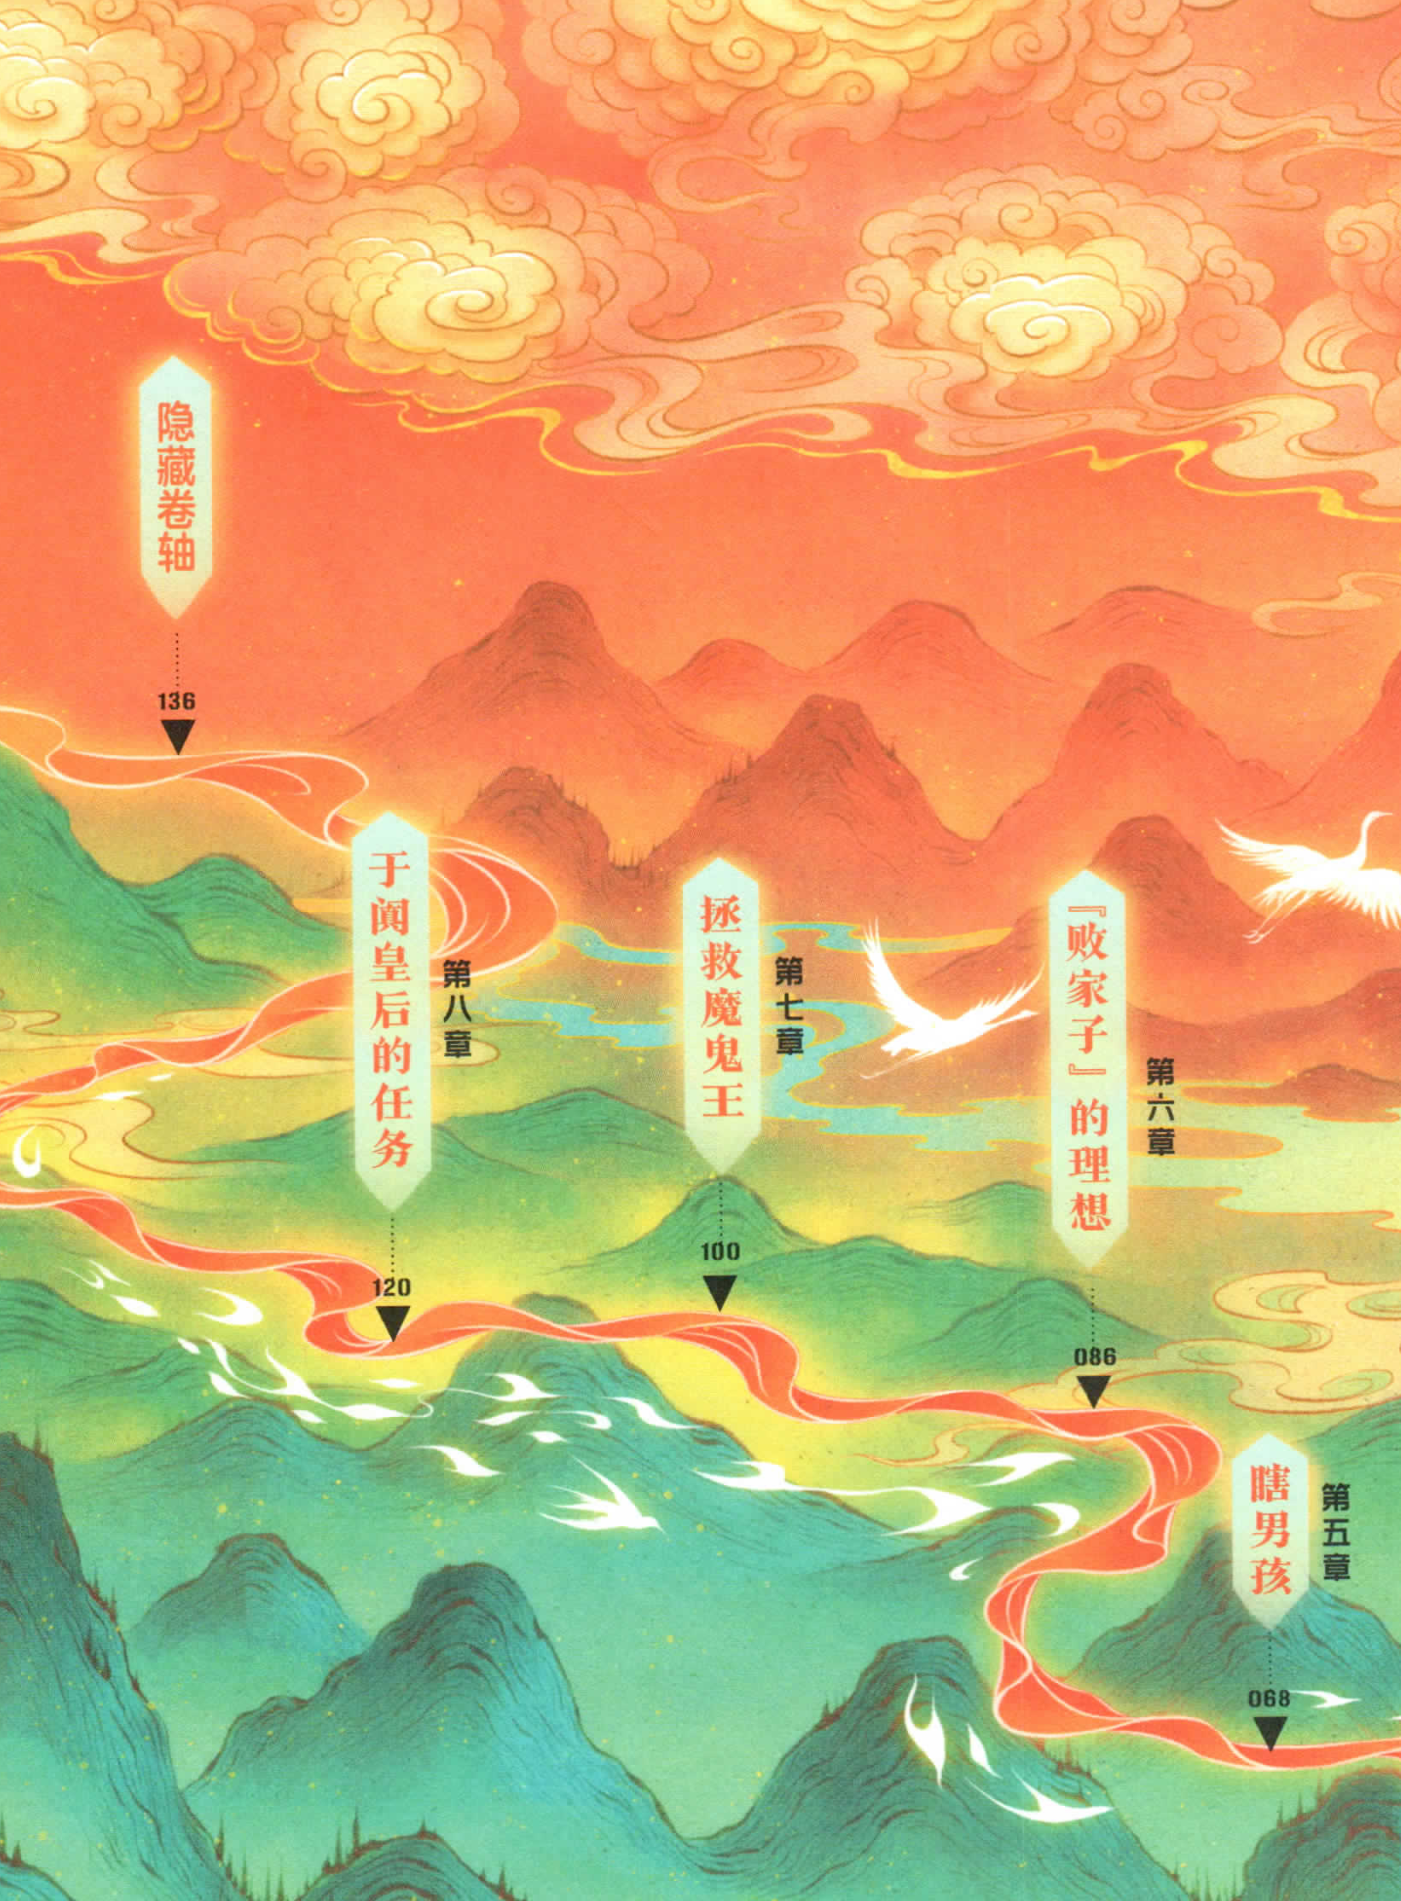
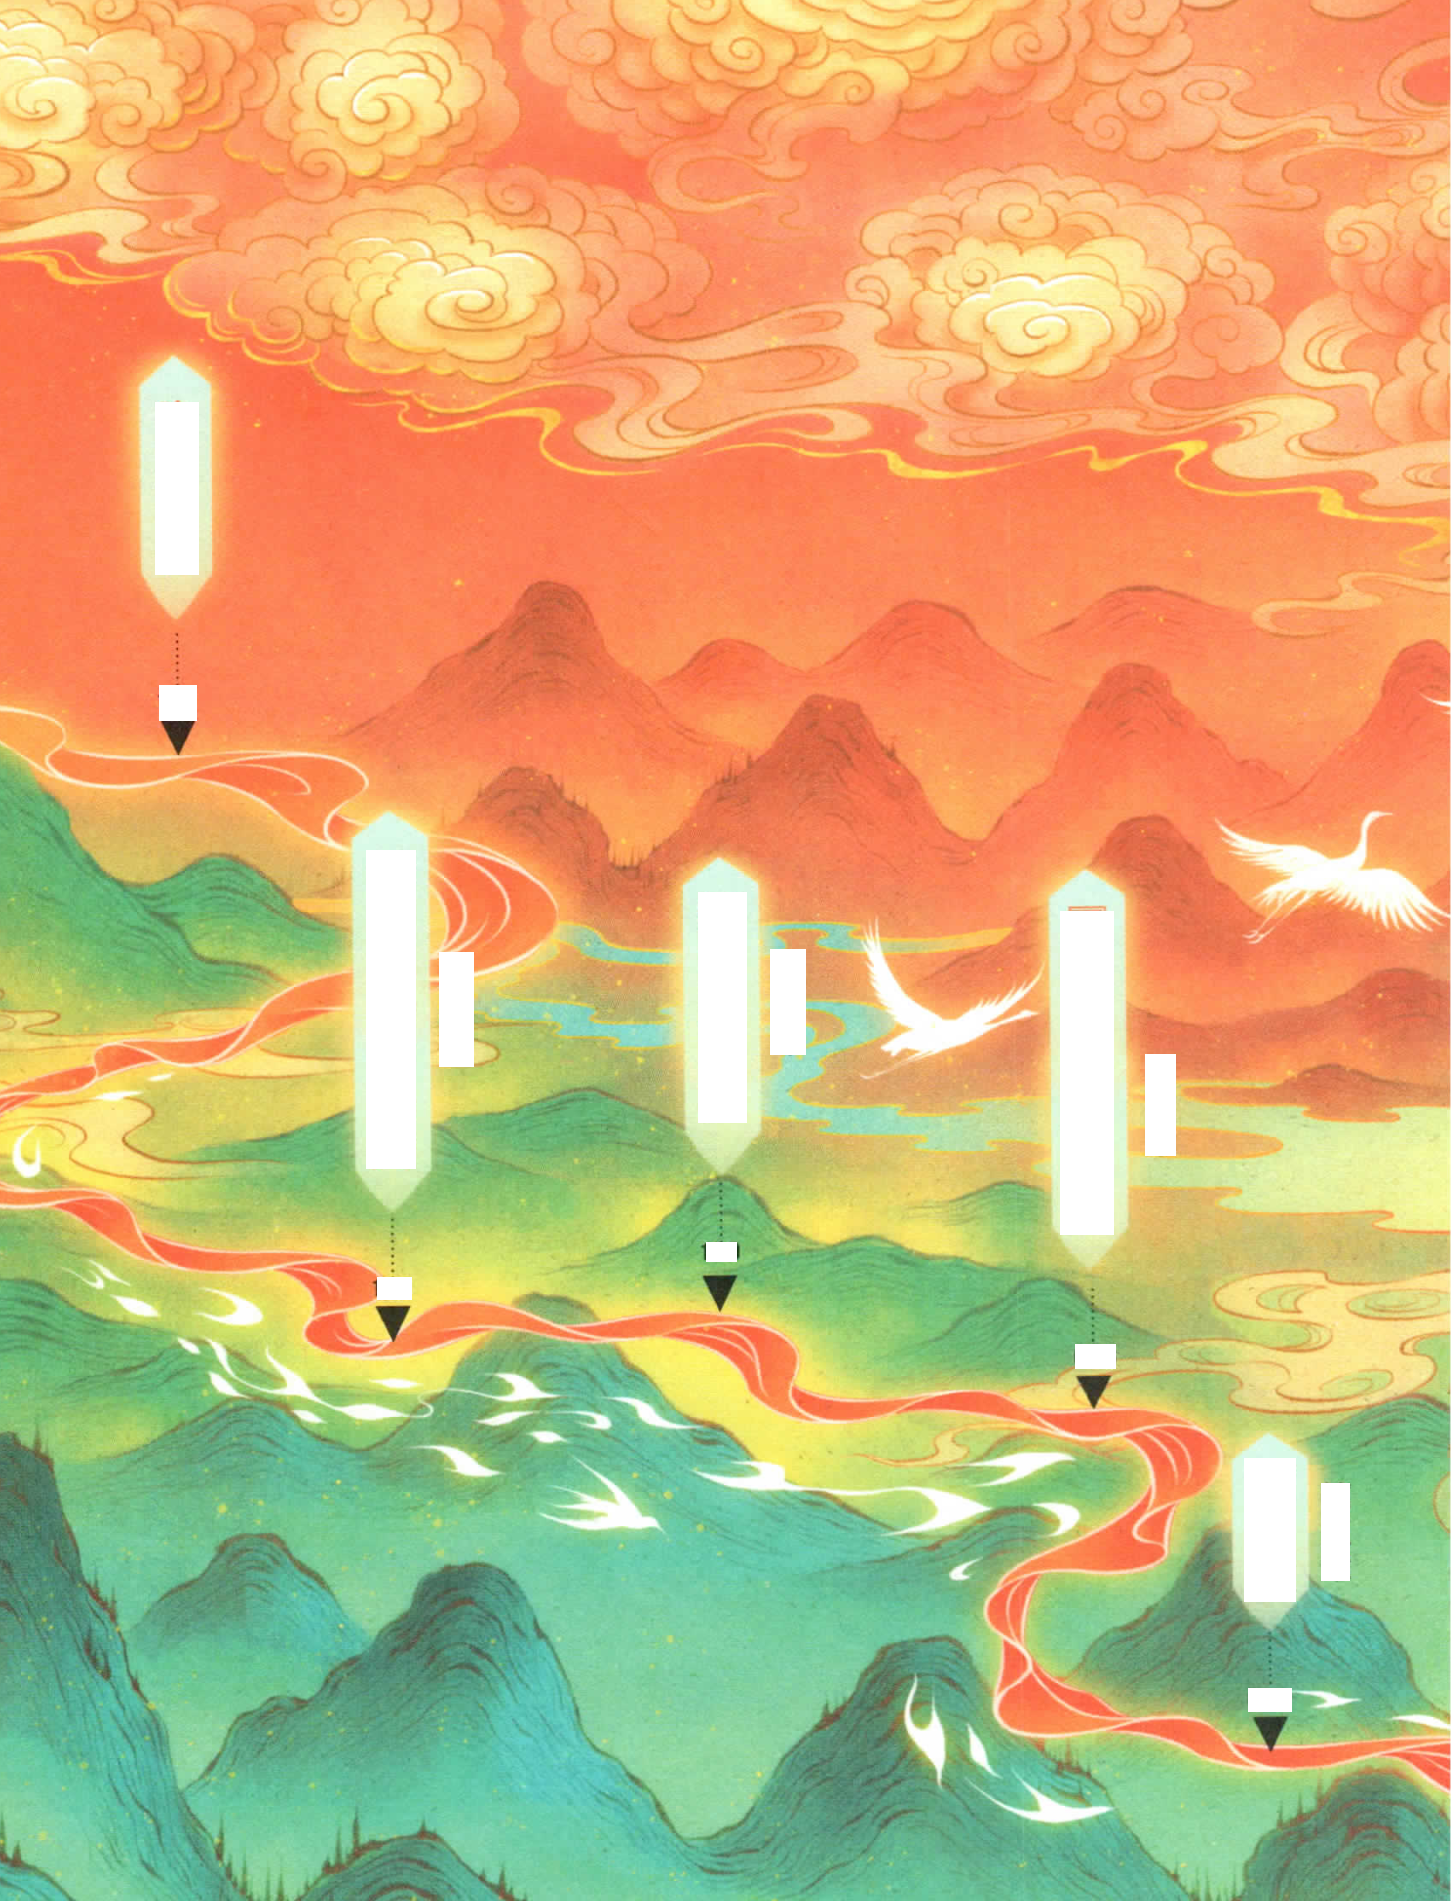
mask characters

diff --git a/ImageExtract.py b/ImageExtract.py
@@ -32,65 +32,73 @@ class Area:  # x-width / y-height
 
 
 # extract images and their areas from pages
-def ImageExtractor(pages):
-    img_areas = []  # [[page1: area1,area2,...],[page2: area1,area2,...], ...]
-    imgs = []  # [img1,img2,img3, ...]
-    for page in pages:
-        gray_page = cv2.cvtColor(page, cv2.COLOR_BGR2GRAY)
-        img_page = ndimage.maximum_filter(gray_page, 7)
-        h, w = np.shape(img_page)
-        areas = []
-        # hard-code parameter: sample_w, sample_h, stride
-        sample_w = 5
-        sample_h = 7
-        stride = 100
-        grid_w = w/(sample_w+1)
-        grid_h = h/(sample_h+1)
-        visited = np.zeros([h, w], dtype=np.int8)
-        # sample points and spread
-        for i in range(1, sample_w+1):
-            for j in range(1, sample_h+1):
-                tx = int(grid_w*i)
-                ty = int(grid_h*j)
-                if img_page[ty][tx] >= 240:
-                    continue
-                flag = False
-                if len(areas):
-                    for area in areas:
-                        if(area.contain(tx, ty)):
-                            flag = True
-                            break
-                if flag:
-                    continue
-                img_area = Area(tx, tx, ty, ty)
-                visited[ty][tx] = 1
-                spread(tx, ty, w, h, stride, visited, img_page, img_area)
-                areas.append(img_area)
-        areas.sort()
-        img_areas.append(areas)
-        for area in areas:
-            if (area.x1-area.x0)*(area.y1-area.y0) < h*w/200:
+def ImageExtractor(page, textBox):
+    areas = []  # [page: area1,area2,...]
+    pictures = []  # [img1,img2,img3, ...]
+    masked_page = mask(page, textBox)  # mask characters
+    spread_page = cv2.cvtColor(masked_page, cv2.COLOR_BGR2GRAY)  # gray-scale
+    h, w = np.shape(spread_page)
+    # hard-code parameter: sample_w, sample_h, stride
+    sample_w = 5
+    sample_h = 7
+    stride = 100
+    grid_w = w/(sample_w+1)
+    grid_h = h/(sample_h+1)
+    visited = np.zeros([h, w], dtype=np.int8)
+    # sample points and spread
+    for i in range(1, sample_w+1):
+        for j in range(1, sample_h+1):
+            tx = int(grid_w*i)
+            ty = int(grid_h*j)
+            if spread_page[ty][tx] >= 240:
                 continue
-            imgs.append(area.cut(page))
-    return img_areas, imgs
+            flag = False
+            if len(areas):
+                for area in areas:
+                    if(area.contain(tx, ty)):
+                        flag = True
+                        break
+            if flag:
+                continue
+            img_area = Area(tx, tx, ty, ty)
+            visited[ty][tx] = 1
+            spread(tx, ty, w, h, stride, visited, spread_page, img_area)
+            areas.append(img_area)
+    areas.sort()
+    for area in areas:
+        if (area.x1-area.x0)*(area.y1-area.y0) < h*w/200:
+            continue
+        pictures.append(area.cut(masked_page))
+    return areas, pictures
 
 
 dx = [0, 1, 0, -1]
 dy = [1, 0, -1, 0]
 
 
-def spread(x: int, y: int, w: int, h: int, stride: int, visited, img_page, area: Area):
+def spread(x: int, y: int, w: int, h: int, stride: int, visited, spread_page, area: Area):
     for i in range(4):
         new_x = int(x+dx[i]*stride)
         new_y = int(y+dy[i]*stride)
-        if new_x >= 0 and new_x < w and new_y >= 0 and new_y < h and (not visited[new_y][new_x]) and img_page[new_y][new_x] < 240:
+        if new_x >= 0 and new_x < w and new_y >= 0 and new_y < h and (not visited[new_y][new_x]) and spread_page[new_y][new_x] < 240:
             area.update(new_x, new_y)
             visited[new_y][new_x] = 1
-            spread(new_x, new_y, w, h, stride, visited, img_page, area)
+            spread(new_x, new_y, w, h, stride, visited, spread_page, area)
         else:
             try_x = int(x+dx[i]*stride/2)
             try_y = int(y+dy[i]*stride/2)
-            if try_x >= 0 and try_x < w and try_y >= 0 and try_y < h and (not visited[try_y][try_x]) and img_page[try_y][try_x] < 240:
+            if try_x >= 0 and try_x < w and try_y >= 0 and try_y < h and (not visited[try_y][try_x]) and spread_page[try_y][try_x] < 240:
                 area.update(try_x, try_y)
                 visited[try_y][try_x] = 1
-                spread(try_x, try_y, w, h, stride, visited, img_page, area)
+                spread(try_x, try_y, w, h, stride, visited, spread_page, area)
+
+
+def mask(page, textBox):
+    for text in textBox:
+        coordinate = text[0]
+        x0 = int(coordinate[0][0])
+        y0 = int(coordinate[0][1])
+        x1 = int(coordinate[2][0])
+        y1 = int(coordinate[2][1])
+        page[y0:y1, x0:x1, :] = 255
+    return page

diff --git a/main.py b/main.py
@@ -1,10 +1,14 @@
 import os
+from paddleocr import PaddleOCR
 from DataPreprocess import preprocess
-from MyOCR import OCR
 from ImageExtract import ImageExtractor
+from TextTypeset import textTypeset
 from ImageCaptions import ImageCaption
 from Reconstruction import reconstruct
 
+
+ocr = PaddleOCR(use_angle_cls=True, use_gpu=True,
+                lang="ch", show_log=False)
 book_paths = os.listdir('input')
 for book_path in book_paths:
     if not book_path[-3:] == "pdf":
@@ -13,10 +17,18 @@ for book_path in book_paths:
     bookname = book_path[:-4]
     # convert scanned pdf file to pictures
     pages = preprocess(book_path)
-    # extract images and their areas from pages
-    img_areas, imgs = ImageExtractor(pages)
-    # OCR operation
-    OCR(pages, bookname, img_areas)
+    img_areas = []  # [[page1: area1,area2,...],[page2: area1,area2,...], ...]
+    imgs = []  # [img1,img2,img3, ...]
+    results = []  # [result1,result2, ...]
+    for page in pages:
+        result = ocr.ocr(page, cls=False)[0]
+        # extract images and their areas from pages
+        img_area, pictures = ImageExtractor(page, result)
+        img_areas.append(img_area)
+        imgs += pictures
+        results.append(result)
+    # text typeset
+    textTypeset(results, bookname, img_areas)
     # image-caption
     txt_captions = ImageCaption(imgs)
     # conbine txt_captions and txt-file

diff --git a/test.py b/test.py
@@ -1,17 +1,31 @@
 import os
 import cv2
-from DataPreproduce import preproduce
+from paddleocr import PaddleOCR
+from DataPreprocess import preprocess
 from ImageExtract import *
 
+ocr = PaddleOCR(use_angle_cls=True, use_gpu=True,
+                lang="ch", show_log=False)
 book_paths = os.listdir('input')
 for book_path in book_paths:
     if not book_path[-3:] == "pdf":
         continue
+    # if book xxx.pdf, bookname = xxx
+    bookname = book_path[:-4]
     # convert scanned pdf file to pictures
-    pages=preproduce(book_path)
-    # extract images and their coordinates from pages
-    img_coordinates,imgs=ImageExtractor(pages)
-    i=0
+    pages = preprocess(book_path)
+    img_areas = []  # [[page1: area1,area2,...],[page2: area1,area2,...], ...]
+    imgs = []  # [img1,img2,img3, ...]
+    results = []  # [result1,result2, ...]
+    for page in pages:
+        result = ocr.ocr(page, cls=False)[0]
+        # extract images and their areas from pages
+        img_area, pictures = ImageExtractor(page, result)
+        img_areas.append(img_area)
+        imgs += pictures
+        results.append(result)
+    i = 0
     for img in imgs:
-        cv2.imwrite(f'./output/image{i}.png',img)
-        i=i+1
+        cv2.imwrite(f'./output/image{i}.png', img)
+        i += 1
+    print(len(imgs))

diff --git a/TextTypeset.py b/TextTypeset.py
@@ -1,10 +1,7 @@
-from paddleocr import PaddleOCR
 from ImageExtract import Area
 
 
-def OCR(pages, filename: str, img_areas: Area):  # OCR operation
-    ocr = PaddleOCR(use_angle_cls=True, use_gpu=True,
-                    lang="ch", show_log=False)
+def textTypeset(textBoxes, filename: str, img_areas: Area):  # OCR operation
     # if the .txt file exit, cover it
     f = open(f'./output/{filename}.txt', 'w')
     f.write("")
@@ -13,10 +10,9 @@ def OCR(pages, filename: str, img_areas: Area):  # OCR operation
     txt = ""
     label = "%&%$\n"
     f = open(f'./output/{filename}.txt', 'a')
-    for i in range(len(pages)):
-        page = pages[i]
+    for i in range(len(textBoxes)):
         areas = img_areas[i]
-        result = ocr.ocr(page, cls=False, det=True)[0]
+        result = textBoxes[i]
         for idx in range(len(result)):
             txt = txt + result[idx][1][0] + "\n"
         # insert image labels
